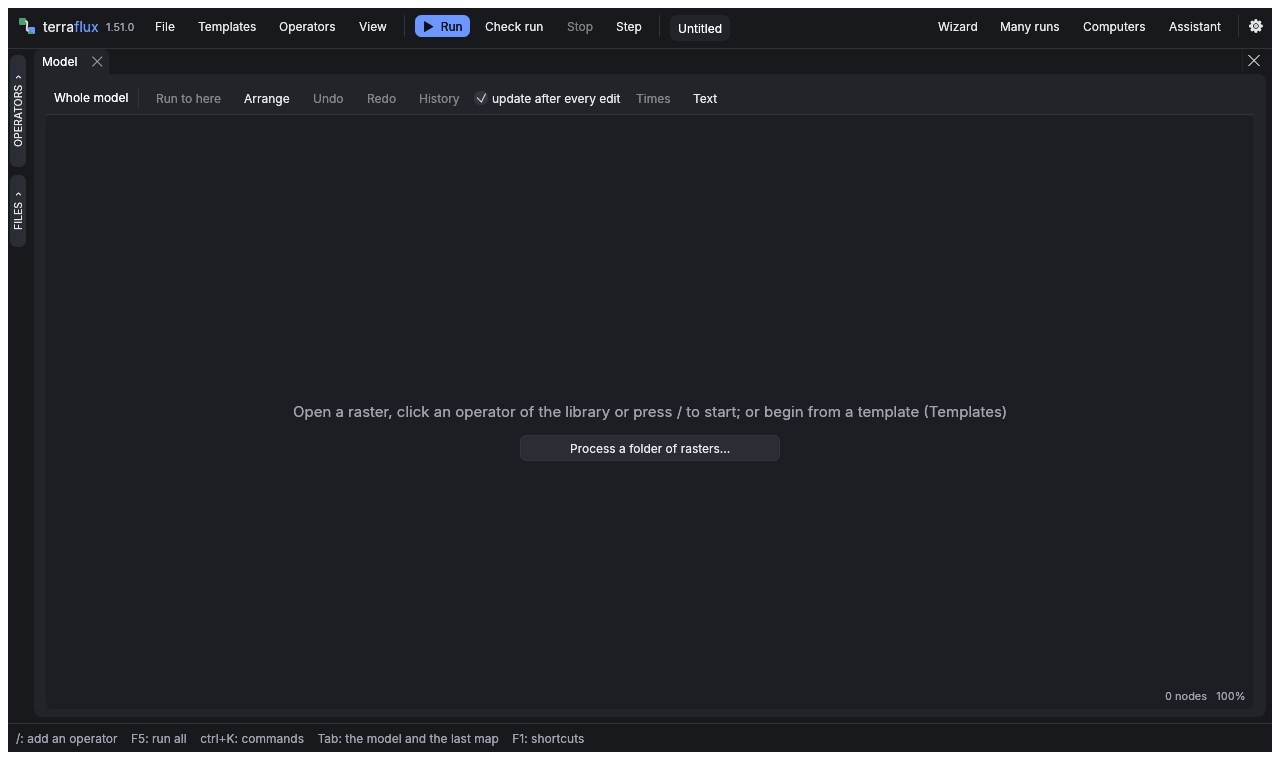
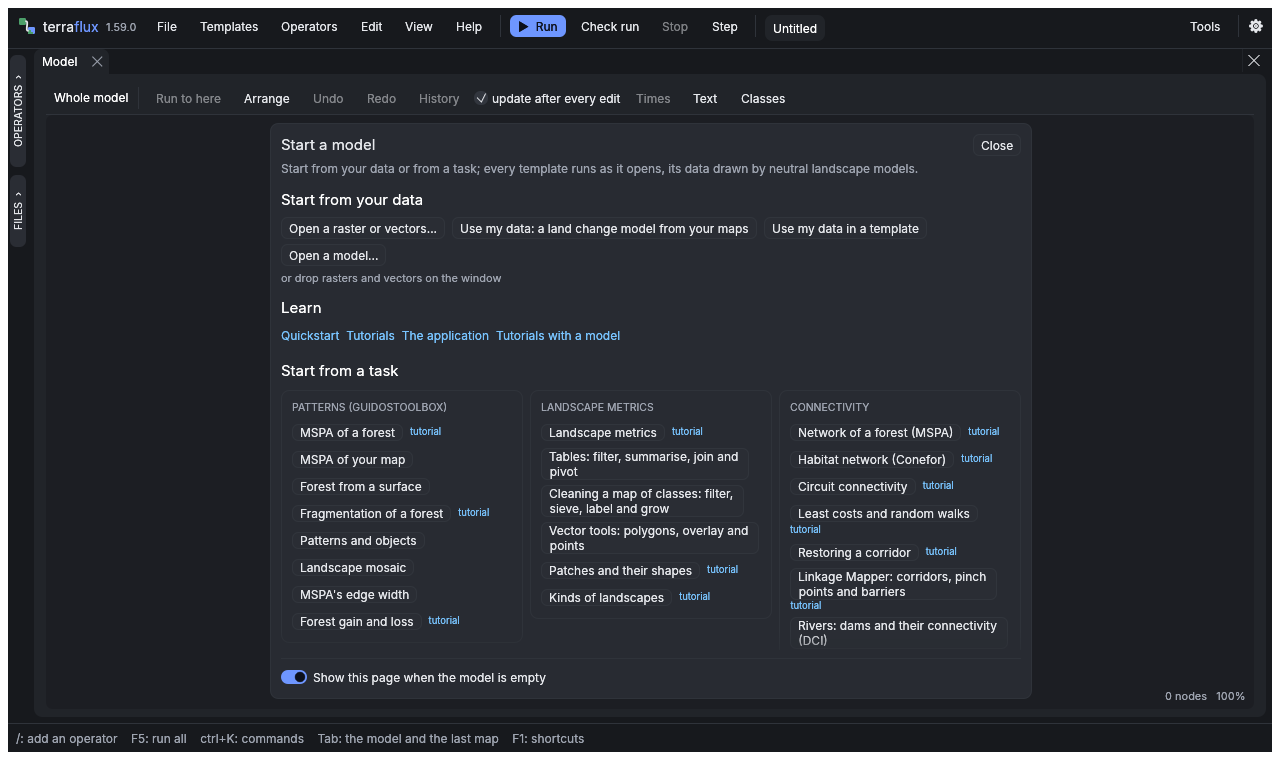
fix(app): the tour's pictures test finds the group Patterns by its whole name, and the tour shows 1.59
The template "Patterns and objects" has the word too, so the menu had two matches. The menu picture is cut at its
widest row (a template's button and its "tutorial" link); the marks point at the Tools menu and Classes; the
pictures are regenerated and the tour describes the start page, the Edit, Help and Tools menus, Times and Classes.

diff --git a/crates/app/tests/readme_images.rs b/crates/app/tests/readme_images.rs
@@ -449,7 +449,7 @@ fn tour_images() {
     std::fs::create_dir_all(&out).unwrap();
     use egui_kittest::kittest::{NodeT, Queryable};
     let marks = Marks::default();
-    // (wide enough for the bar's tools on it, not in its Tools menu)
+    // (at this width the bar's tools are in its Tools menu)
     let mut h = harness_marked((1280.0, 760.0), 1.0, marks.clone());
     // where a part is: the first widget whose words have these (its rectangle, points); the panes' tabs are not
     // widgets, so they are found from the widgets of their panes
@@ -470,11 +470,25 @@ fn tour_images() {
     // the Templates menu, its group Patterns open (the window's top left corner, as far as the menus reach)
     h.get_by_label("Templates").click();
     h.run_steps(3);
-    h.get_by_label_contains("Patterns").click();
+    // (the group's whole name: the template "Patterns and objects" has the word too)
+    h.get_by_label_contains("Patterns (GuidosToolbox)").click();
     h.run_steps(3);
+    // (the menu's right edge: its rows are a button as wide as its words and, beside one with a tutorial, a link
+    // "tutorial" on the same line, so the widest of them, links included)
     let (yours, item) = (rect(&h, "Yours"), rect(&h, "MSPA of a forest"));
+    let mut right = item.right();
+    for t in terraflux_app::templates::TEMPLATES.iter().filter(|t| t.group == "Patterns (GuidosToolbox)") {
+        right = right.max(rect(&h, t.name).right());
+    }
+    for n in h.query_all_by_label("tutorial") {
+        if let Some(b) = n.accesskit_node().bounding_box() {
+            if b.x0 as f32 > item.left() && (b.y1 as f32) > item.top() && (b.y0 as f32) < yours.bottom() {
+                right = right.max(b.x1 as f32);
+            }
+        }
+    }
     let img = h.render().expect("the window drawn by wgpu");
-    let (w, ht) = ((item.right() + 20.0) as u32, (yours.bottom() + 18.0) as u32);
+    let (w, ht) = ((right + 20.0) as u32, (yours.bottom() + 18.0) as u32);
     image::imageops::crop_imm(&img, 0, 0, w.min(img.width()), ht.min(img.height()))
         .to_image()
         .save(out.join("templates-menu.png"))
@@ -523,14 +537,15 @@ fn tour_images() {
     let before = |r: egui::Rect| egui::pos2(r.left() - 16.0, r.center().y);
     let mspa = h.state().session.as_ref().unwrap().editor.drawn_rect_of("mspa").expect("the box of mspa");
     let places = [
-        ("1", before(rect(&h, "Use my data"))),
+        // (the toolbar: its menus, and at its right the Tools menu)
+        ("1", before(rect(&h, "Tools"))),
         ("2", beside(rect(&h, "done in"))),
         // (the box of mspa, selected: its settings are its rows, its gear opens the panel beside it)
         ("3", mspa.left_top() + egui::vec2(-8.0, 8.0)),
         // (the drawers' tabs at the window's left edge)
         ("4", egui::pos2(46.0, 305.0)),
         ("5", egui::pos2(whole.left() + 90.0, whole.bottom() + 40.0)),
-        ("6", beside(rect(&h, "Text"))),
+        ("6", beside(rect(&h, "Classes"))),
         ("7", egui::pos2(whole.left() + 81.0, save.top() - 26.0)),
         ("8", egui::pos2(save.center().x, save.top() - 12.0)),
         ("9", before(rect(&h, "Background")) - egui::vec2(18.0, 0.0)),

diff --git a/website/content/tutorials/getting-started/tour.md b/website/content/tutorials/getting-started/tour.md
@@ -57,21 +57,26 @@ so they run without any file.
 ## The window
 
 Open Terraflux (from the Start menu on Windows, Applications on macOS, the menu of your desktop on Linux, or by
-typing `terraflux app` in a terminal). The window starts empty, with a message in the middle of the canvas:
-*Open a raster, click an operator of the library or press / to start; or begin from a template (Templates)*.
+typing `terraflux app` in a terminal). While the model is empty, the canvas holds the **Start a model** page:
+*Start from your data* (open a raster or vectors, *Use my data* for a land change model or a template, open a
+model), *Learn* (links to the tutorials) and *Start from a task*, the templates by group, with a *tutorial* link
+beside those that have one. *Close* hides it; *Show this page when the model is empty* turns it off for good.
 
-![The empty window of Terraflux](/img/tutorials/getting-started/tour/empty.png "Terraflux as it opens: the toolbar at the top, the Model pane (an empty canvas) in the whole window, the Operators and Files drawers at its left edge, and a line of keyboard hints at the bottom. The other panes come when they have something to show. Screenshot of Terraflux 1.51 on Windows (the theme Slate).")
+![The empty window of Terraflux](/img/tutorials/getting-started/tour/empty.png "Terraflux as it opens: the toolbar at the top, the Model pane in the whole window, its canvas holding the Start a model page, the Operators and Files drawers at its left edge, and a line of keyboard hints at the bottom. The other panes come when they have something to show. Screenshot of Terraflux 1.59 on Windows (the theme Slate).")
 
 Here is the same window after a template has run, with its parts numbered. The template brings the Document and
 the Viewer as tabs behind the Model's, and the **Prepare** drawer at the window's left edge, with the Operators
 and Files drawers; here the Viewer's tab was dragged below the Model, to see both:
 
-![The parts of the window](/img/tutorials/getting-started/tour/window.png "The window with the template 'MSPA of a forest' run, the Viewer dragged below the Model. Numbers are explained below. Screenshot of Terraflux 1.51 on Windows (the theme Slate).")
+![The parts of the window](/img/tutorials/getting-started/tour/window.png "The window with the template 'MSPA of a forest' run, the Viewer dragged below the Model. Numbers are explained below. Screenshot of Terraflux 1.59 on Windows (the theme Slate).")
 
 1. **The toolbar.** The **File** menu (*New model*, *Open...*, *Open recent*, *Save*, *Save as...*, *Open a raster
    or vectors...*, *Compare* and *Export report*), *Templates* (models to start from), *Operators* (the library
-   as a menu) and *View* (panes on and off); at the right, *Use my data...* (a land change model from your maps: the
-   model first, then your files), *Many runs...*, *Computers...*, *Assistant...* and **⚙**, the settings.
+   as a menu), *Edit* (*Find and replace...*), *View* (panes on and off) and *Help* (the tutorials, the start
+   page); at the right, **Tools** (*Use my data...*, a land change model from your maps: the model first, then
+   your files; *Many runs...*, *Computers...* and *Assistant...*; on a wide window they are buttons on the bar
+   itself) and **⚙**, the settings. A template run on drawn data says so above the canvas, with its own *Use my
+   data...*.
 2. **Run and Stop**, then the model's name and how long the last run took (*done in 0.04 s*). **Run** (++f5++) runs
    the whole model. Beside them, **Step** pauses a run after each step of a loop, until *Next* or *Continue* (see
    [Loops](../../building-models/loops/#step-5-run-it-step-by-step)).
@@ -97,7 +102,8 @@ and Files drawers; here the Viewer's tab was dragged below the Model, to see bot
    double-click the edge to bring it back to the width its names need.
 6. **The Model pane's bar**: where you are in the model (*Whole model*, or inside a loop), **Run to here** (run the
    node selected and what it needs, ++ctrl+enter++), **Arrange** (tidy the nodes, ++ctrl+l++), **Undo** and **Redo**, **update after
-   every edit** (run again by itself after every change) and **Text** (the model as text).
+   every edit** (run again by itself after every change), **Times** (after a run, the boxes coloured by their
+   share of its time), **Text** (the model as text) and **Classes** (the model as the tree of its classes).
 7. **The Viewer.** It shows what the node selected gives, refreshed at every run; a double click on a node
    brings it to the front with that node's output, and keeps it there as a layer. The **Layers** at the map's
    left list the maps and vectors drawn together (shown or hidden, dragged over or under each other, their
